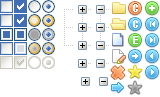
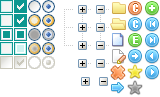
更换样式

Changed region(s): [[0.0, 0.0, 0.1875, 0.5876]]

diff --git a/src/view/dashboard/Device/Device.tsx b/src/view/dashboard/Device/Device.tsx
@@ -3,6 +3,7 @@ import React, { Component } from 'react';
 import { connect } from 'dva';
 import classnames from 'classnames';
 import debounce from 'lodash/debounce';
+import Icon from 'antd/lib/icon';
 import Button from 'antd/lib/button';
 import message from 'antd/lib/message';
 import { send } from '@src/service/tcpServer';
@@ -30,6 +31,7 @@ import CheckInputModal from './components/CheckInputModal/CheckInputModal';
 import ServerCloudInputModal from './components/ServerCloudInputModal/ServerCloudInputModal';
 import { Prop, State } from './ComponentType';
 import './Device.less';
+import ArcButton from './components/ArcButton';
 
 const { max, useBcp } = helper.readConf();
 const { Group } = Button;
@@ -470,23 +472,19 @@ class Device extends Component<Prop, State> {
 		return (
 			<div className="device-root">
 				<div className={classnames({ 'button-bar': true, pad: max <= 2 })}>
-					<Group>
-						<ModeButton
-							icon="android"
-							onClick={() => this.setState({ usbDebugWithCloseModalVisible: true })}>
-							开启USB调试
-						</ModeButton>
-						<ModeButton
-							icon="apple"
-							onClick={() => this.setState({ appleModalVisible: true })}>
-							Apple授权
-						</ModeButton>
-						<ModeButton
-							icon="question-circle"
-							onClick={() => this.setState({ helpModalVisible: true })}>
-							操作帮助
-						</ModeButton>
-					</Group>
+					<ArcButton onClick={() => this.setState({ usbDebugWithCloseModalVisible: true })}>
+						<Icon type="android" />
+						<span style={{ marginLeft: '4px' }}>开启USB调试</span>
+					</ArcButton>
+					<ArcButton onClick={() => this.setState({ appleModalVisible: true })}>
+						<Icon type="apple" />
+						<span style={{ marginLeft: '4px' }}>Apple授权</span>
+					</ArcButton>
+					<ArcButton onClick={() => this.setState({ helpModalVisible: true })}>
+						<Icon type="question-circle" />
+						<span style={{ marginLeft: '4px' }}>操作帮助</span>
+					</ArcButton>
+
 					<Button
 						onClick={() => {
 							let fetchData = {

diff --git a/src/view/dashboard/Device/Device.less b/src/view/dashboard/Device/Device.less
@@ -12,10 +12,13 @@
 		left: 5px;
 		right: 5px;
 		bottom: auto;
+		padding: 0 10px;
 		box-sizing: border-box;
-		border: 1px solid darken(@base-color, 10%);
-		padding: 5px;
-		background-color: @base-color;
+		// border: 1px solid darken(@base-color, 10%);
+
+		& > div {
+			margin-right: 20px;
+		}
 
 		label {
 			color: #fff;
@@ -29,13 +32,10 @@
 
 	.panel {
 		position: absolute;
-		top: 52px;
+		top: 48px;
 		left: 5px;
 		right: 5px;
 		bottom: 5px;
-		border: 1px solid @base-color;
-		box-shadow: 5px 5px 10px #cacaca;
-		background-color: #fff;
 		display: flex;
 		flex-direction: column;
 
@@ -50,7 +50,10 @@
 			flex: 1;
 			display: flex;
 			flex-direction: row;
-			padding: 1px;
+			padding: 10px;
+			&:nth-child(2) {
+				padding-top: 5px;
+			}
 			&.pad {
 				padding-left: 0;
 			}
@@ -61,13 +64,13 @@
 				display: inline-block;
 
 				&:not(:last-child) {
-					margin-left: 1px;
+					margin-left: 10px;
 				}
 				&:first-child {
 					margin-left: 0;
 				}
 				&:last-child {
-					margin-left: 1px;
+					margin-left: 10px;
 				}
 			}
 		}
@@ -77,14 +80,18 @@
 			display: flex;
 			flex-direction: column;
 			height: 100%;
-			border: 1px solid @base-color;
+			border-radius: 15px;
+			background-color: rgba(0, 67, 80, 0.5);
+			// border: 1px solid @base-color;
 
 			&.flash {
 				animation: flashBorder 0.6s ease-out infinite;
 			}
 
 			.no {
-				background-color: @base-color;
+				border-top-left-radius: 15px;
+				border-top-right-radius: 15px;
+				background-color: transparent;
 				color: contrast(@base-color, #fff, @base-font-color);
 				height: 30px;
 				line-height: 30px;
@@ -97,7 +104,7 @@
 				}
 
 				div {
-					padding: 0 5px;
+					padding: 0 15px;
 
 					&:first-child {
 						flex: none;

diff --git a/src/components/RecordModal/CloudHistoryModal.tsx b/src/components/RecordModal/CloudHistoryModal.tsx
@@ -67,13 +67,13 @@ function findApp(appsInCategory: App[], cloudApps: CloudAppMessages[]) {
 function addColor(state: CloudAppState, text: string) {
 	switch (state) {
 		case CloudAppState.Fetching:
-			return `<span style="color:#222;">${text}</span>`;
+			return `<span style="color:#fff;">${text}</span>`;
 		case CloudAppState.Error:
 			return `<span style="color:#dc143c;font-weight:bold;">${text}(失败)</span>`;
 		case CloudAppState.Success:
 			return `<span style="color:#23bb07;font-weight:bold;">${text}(成功)</span>`;
 		default:
-			return `<span style="color:#222;">${text}</span>`;
+			return `<span style="color:#fff;">${text}</span>`;
 	}
 }
 
@@ -136,7 +136,7 @@ const CloudHistoryModal: FC<Prop> = ({
 								<label>
 									【{moment(item.actionTime).format('YYYY-MM-DD HH:mm:ss')}】
 								</label>
-								<span style={{ color: '#222' }}>{item.content}</span>
+								<span style={{ color: '#fff' }}>{item.content}</span>
 							</li>
 						);
 					case SmsMessageType.Warning:
@@ -154,7 +154,7 @@ const CloudHistoryModal: FC<Prop> = ({
 								<label>
 									【{moment(item.actionTime).format('YYYY-MM-DD HH:mm:ss')}】
 								</label>
-								<span style={{ color: '#416eb5' }}>{item.content}</span>
+								<span style={{ color: '#6796e1' }}>{item.content}</span>
 							</li>
 						);
 					default:

diff --git a/src/components/nav/Nav.tsx b/src/components/nav/Nav.tsx
@@ -4,19 +4,24 @@ import React, { FC, MouseEvent } from 'react';
 import { connect } from 'dva';
 import { NavLink } from 'dva/router';
 // import classnames from 'classnames';
+import { useManufaturer } from '@src/hooks';
 import { helper } from '@utils/helper';
 // import BottomLogo from './BottomLogo';
 import logo from './images/logo.png';
 import './Nav.less';
 
 const config = helper.readConf();
-const appPath = process.cwd();
+// const appPath = process.cwd();
+const title = localStorage.getItem('materials_name');
 
 /**
  * 导航菜单
  */
-const Nav: FC<{}> = () => (
-	<nav
+const Nav: FC<{}> = () => {
+
+	const manu = useManufaturer();
+
+	return <nav
 		className="top-nav"
 		onContextMenu={(event: MouseEvent<HTMLElement>) => {
 			event.preventDefault();
@@ -31,7 +36,7 @@ const Nav: FC<{}> = () => (
 		}}>
 		<div className="bg-top">
 			<img src={logo} alt="logo" width={65} height={70} />
-			<span>手机合规快速检测系统</span>
+			<span>{title ?? ''}</span>
 		</div>
 		<ul>
 			<li>
@@ -77,6 +82,6 @@ const Nav: FC<{}> = () => (
 
 		</div>
 	</nav>
-);
+};
 
 export default connect(() => ({ nav: null }))(Nav);

diff --git a/src/view/dashboard/Device/components/ArcButton/ArcButton.less b/src/view/dashboard/Device/components/ArcButton/ArcButton.less
@@ -1,0 +1,41 @@
+.arc-button-root {
+	display: inline-flex;
+	flex-direction: row;
+	align-items: center;
+	justify-content: center;
+	cursor: pointer;
+	background-color: transparent;
+
+	&:hover {
+		button {
+			color: #66ffff;
+			cursor: pointer;
+		}
+	}
+
+	& > .arc-left {
+		display: block;
+		width: 14px;
+		height: 36px;
+		background-image: url(./images/arc-left.png);
+		background-repeat: no-repeat;
+		background-color: transparent;
+	}
+	& > .arc-middle {
+		display: block;
+		width: auto;
+		height: 30px;
+		border: none;
+		background-image: url(./images/arc-middle.png);
+		background-repeat: repeat-x;
+		background-color: transparent;
+	}
+	& > .arc-right {
+		display: block;
+		width: 13px;
+		height: 36px;
+		background-image: url(./images/arc-right.png);
+		background-repeat: no-repeat;
+		background-color: transparent;
+	}
+}

diff --git a/src/components/DeviceInfo/renderByState.tsx b/src/components/DeviceInfo/renderByState.tsx
@@ -12,6 +12,7 @@ import { caseStore } from '@utils/localStore';
 import ProgressBar from '@src/components/ProgressBar';
 import { hiddenButton } from '@src/components/enhance/modeButton';
 import { Prop } from './ComponentType';
+import usb from './images/usb.png';
 
 const { max, useFetch, useServerCloud, fetchButtonText, cloudButtonText } = helper.readConf();
 const FetchButton = hiddenButton(useFetch === undefined ? false : !useFetch)(Button);
@@ -101,7 +102,7 @@ const getDomByWaiting = ({ }: Prop) => (
 	<div className="connecting">
 		<div className="info">请连接USB</div>
 		<div className="lstatus">
-			<Icon type="usb" />
+			<img src={usb} width={40} alt="USB" />
 		</div>
 	</div>
 );

diff --git a/src/view/dashboard/Device/components/ArcButton/ArcButton.tsx b/src/view/dashboard/Device/components/ArcButton/ArcButton.tsx
@@ -1,0 +1,26 @@
+import React, { FC, MouseEvent } from 'react';
+import './ArcButton.less';
+
+const ArcButton: FC<{ onClick?: () => void }> = ({ children, onClick }) => {
+
+    const onButtonClick = (e: MouseEvent) => {
+        e.preventDefault();
+        if (onClick) {
+            onClick();
+        }
+    };
+
+    return <div
+        onClick={onButtonClick}
+        className="arc-button-root">
+        <span className="arc-left"></span>
+        <button
+            type="button"
+            className="arc-middle">
+            {children}
+        </button>
+        <span className="arc-right"></span>
+    </div>;
+};
+
+export default ArcButton;

diff --git a/src/hooks/useManufaturer.ts b/src/hooks/useManufaturer.ts
@@ -1,0 +1,21 @@
+import { useEffect, useState } from "react";
+import Manufaturer from "@src/schema/socket/Manufaturer";
+import { helper } from "@src/utils/helper";
+
+export function useManufaturer() {
+
+    const [manu, setManu] = useState<Manufaturer>();
+
+    useEffect(() => {
+        (async () => {
+            try {
+                const data = await helper.readManufaturer();
+                setManu(data);
+            } catch (error) {
+                console.warn(error);
+            }
+        })();
+    }, []);
+
+    return manu;
+}

diff --git a/src/router/RouterConfig.tsx b/src/router/RouterConfig.tsx
@@ -38,8 +38,8 @@ const RouterConfig = ({ app, history }: RouterAPI) => (
 		<Router history={history}>
 			<div
 				className={classnames({
-					'display-mode-computer': max > 2,
-					'display-mode-pad': max <= 2
+					'display-mode-computer': false,
+					'display-mode-pad': true
 				})}>
 				<Route path="/" exact={true} component={Dashboard} />
 				<Route path="/dashboard" component={Dashboard} />

diff --git a/src/hooks/index.ts b/src/hooks/index.ts
@@ -3,11 +3,13 @@ import { useCurrentVal } from './useCurrentVal';
 import { useQueryDb } from './useQueryNedb';
 import { useSubscribe } from './useSubscribe';
 import { useAppSerial } from './useAppSerial';
+import { useManufaturer } from './useManufaturer';
 
 export {
     useMount,
     useCurrentVal,
     useQueryDb,
     useSubscribe,
-    useAppSerial
+    useAppSerial,
+    useManufaturer
 };

diff --git a/src/view/operation/Index.less b/src/view/operation/Index.less
@@ -15,8 +15,8 @@
         margin-right    : 20px;
         margin-top      : 20px;
         padding         : 10px 20px 10px 20px;
-        background-color: #f2f2f2;
-        box-shadow      : 5px 5px 10px #dadada;
+        background-color: #303030;
+        box-shadow      : 5px 5px 10px #303030;
 
         &.pad {
             flex-direction  : column;

diff --git a/src/view/record/Parse/components/ProgressModal/ProgressModal.less b/src/view/record/Parse/components/ProgressModal/ProgressModal.less
@@ -18,7 +18,7 @@
 
 		.content {
 			font-size: @small-font-size;
-			color: #222;
+			color: #fff;
 			display: flex;
 			flex-direction: column;
 
@@ -59,7 +59,7 @@
 
 			.line {
 				padding: 4px;
-				border-bottom: 1px solid #e3ecf5;
+				border-bottom: 1px solid #303030;
 				width: 100%;
 
 				&:last-child {
